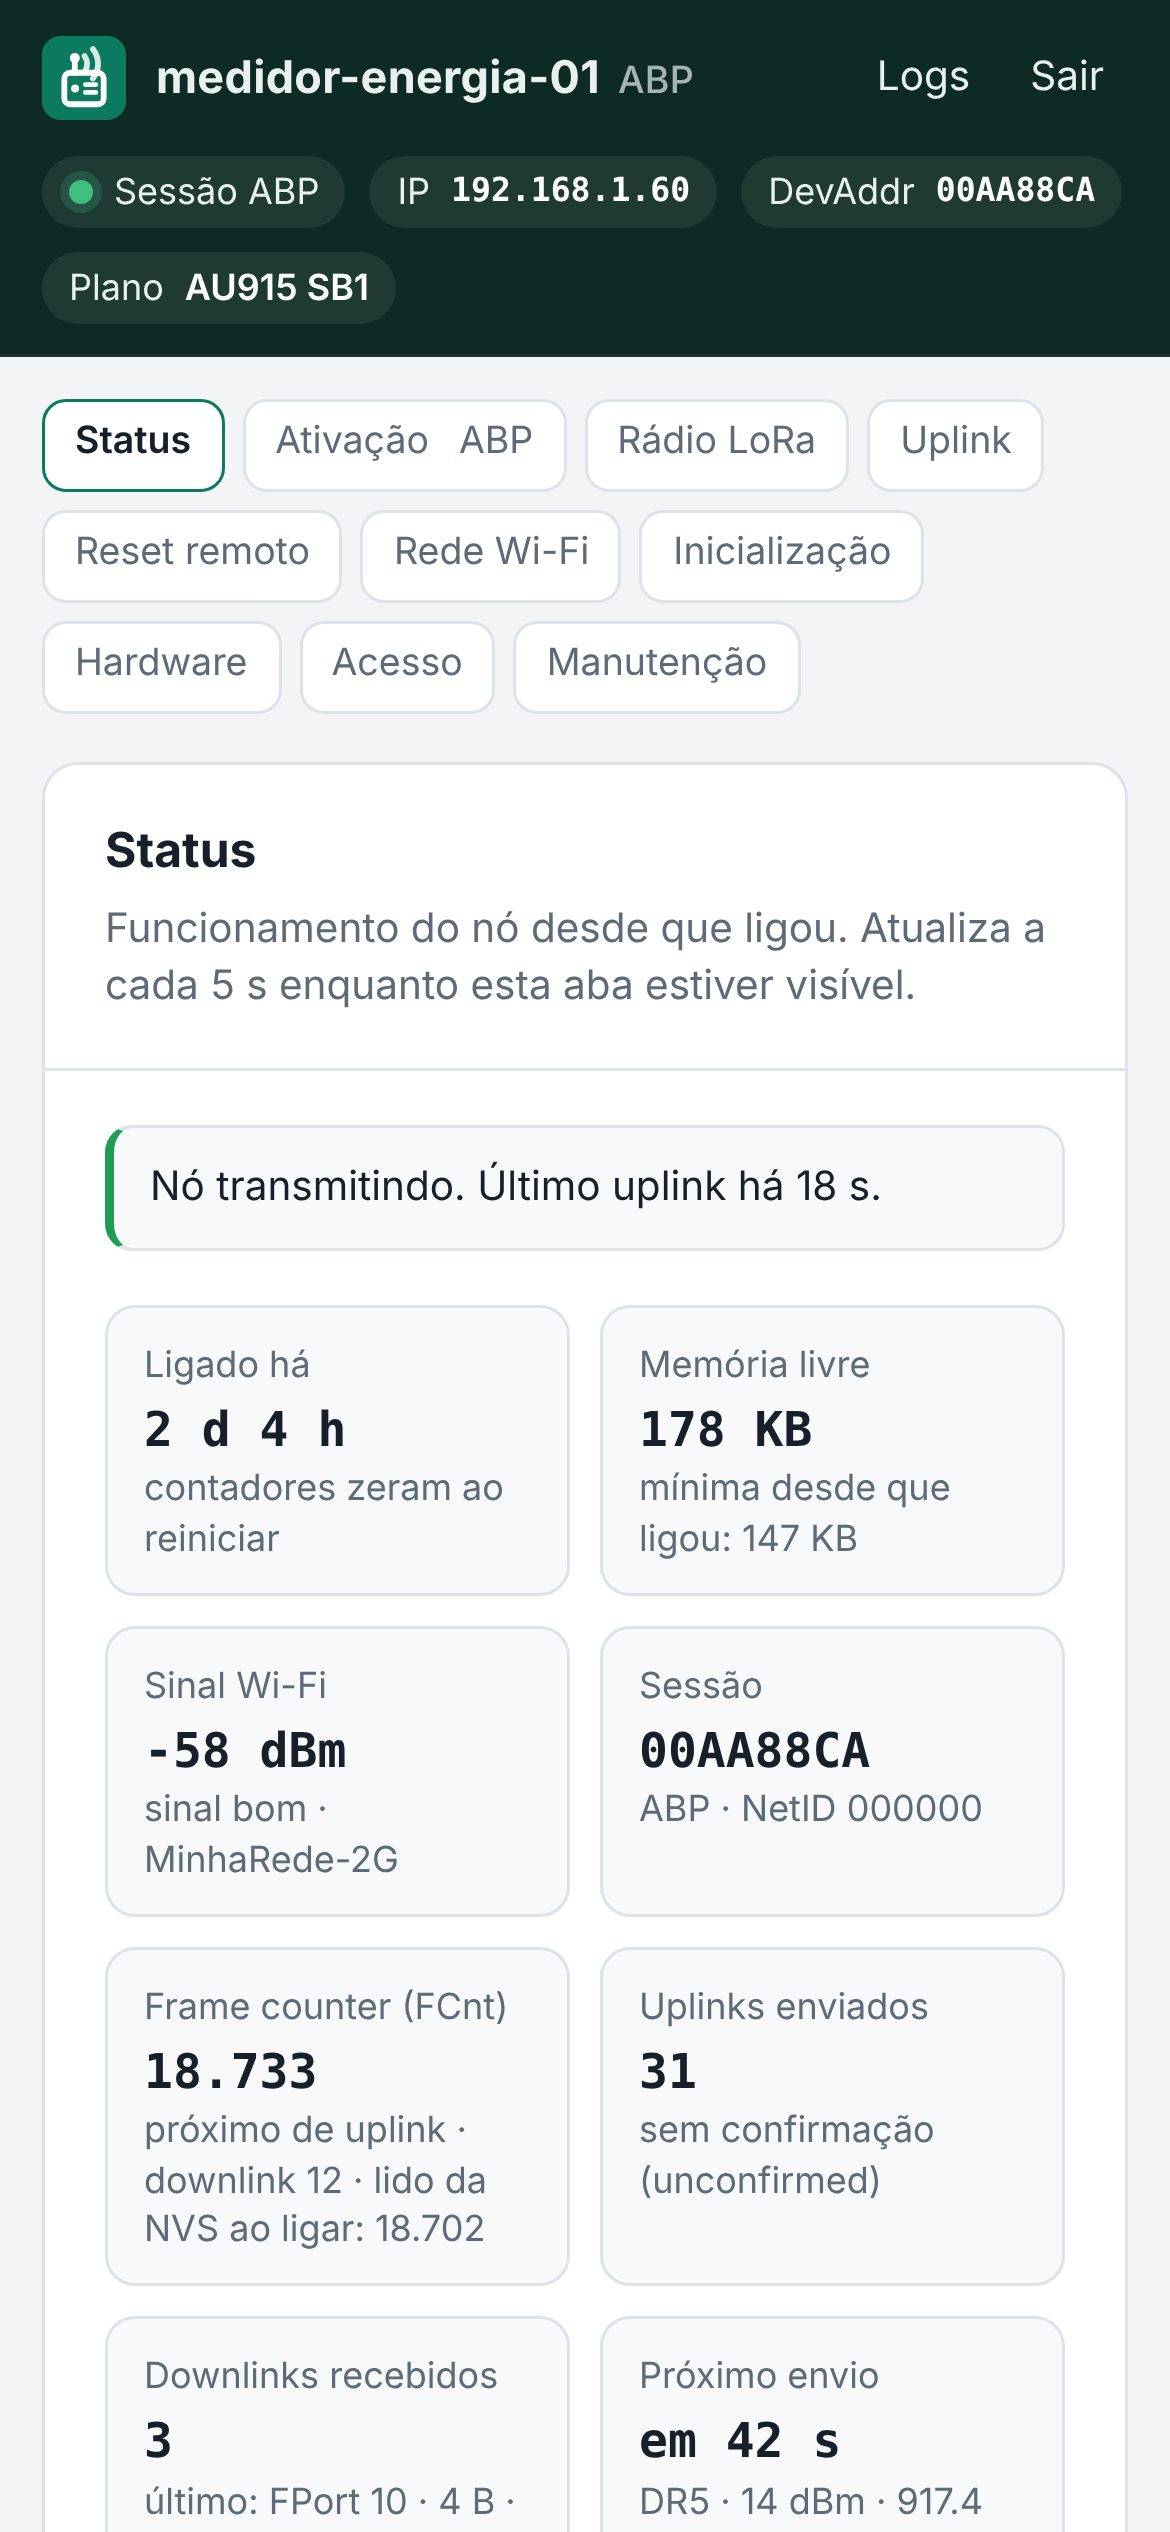
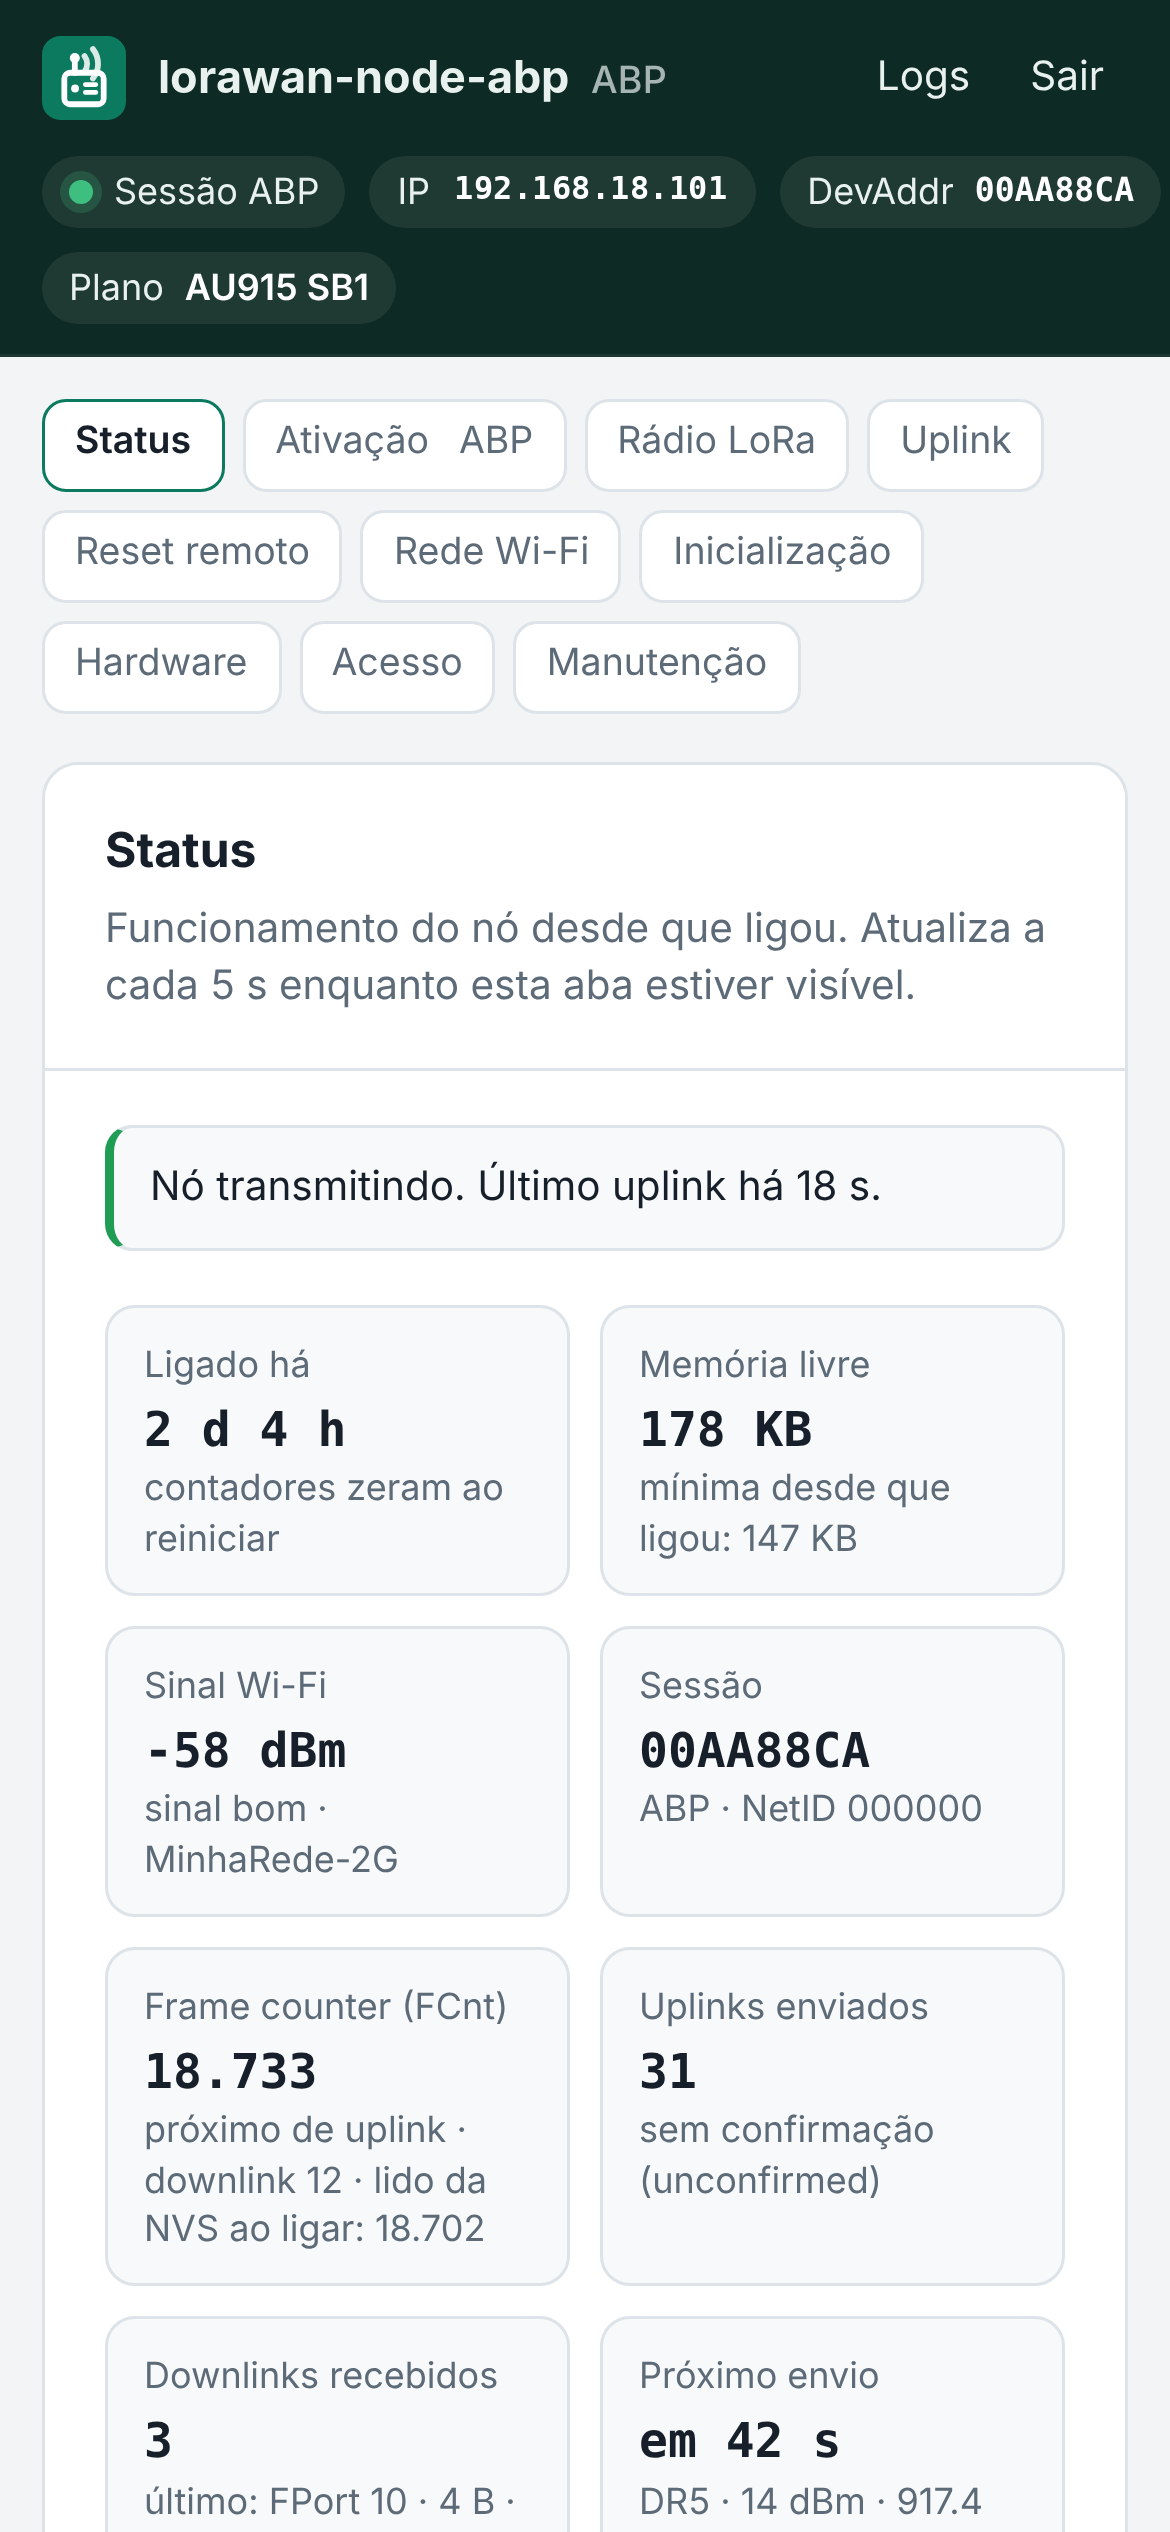
Alteração IP, Gateway, Usuário e Senha de acesso
Alteração IP, Gateway, Usuário e Senha de acesso.

diff --git a/node_page.h b/node_page.h
@@ -493,7 +493,7 @@ v=hexb(f.rst_cmd.value);if(!v||v.length<1||v.length>16)e.push("Comando de reset:
 v=f.wifi_pswd.value;if(v&&v.length<8)e.push("Senha do Wi-Fi: mínimo de 8 caracteres.");
 v=f.ap_pswd.value;if(v&&v.length<8)e.push("Senha do Soft AP: mínimo de 8 caracteres.");
 if(rv("ip_mode")=="static"){var A={};if(!f.ip_mask.value.trim())f.ip_mask.value="255.255.255.0";
-[["ip_addr","Endereço IP",1],["ip_mask","Máscara",1],["ip_gw","Gateway",1],["ip_dns1","DNS primário",0],["ip_dns2","DNS secundário",0]].forEach(function(x){v=f[x[0]].value.trim();f[x[0]].value=v;if(!v){if(x[2])e.push(x[1]+": obrigatório com IP fixo.");return}A[x[0]]=ip4(v);if(A[x[0]]===null)e.push(x[1]+": use o formato 192.168.1.60.")});
+[["ip_addr","Endereço IP",1],["ip_mask","Máscara",1],["ip_gw","Gateway",1],["ip_dns1","DNS primário",0],["ip_dns2","DNS secundário",0]].forEach(function(x){v=f[x[0]].value.trim();f[x[0]].value=v;if(!v){if(x[2])e.push(x[1]+": obrigatório com IP fixo.");return}A[x[0]]=ip4(v);if(A[x[0]]===null)e.push(x[1]+": use o formato 192.168.18.101.")});
 if(A.ip_mask!=null&&(!A.ip_mask||!/^1*0*$/.test(A.ip_mask.toString(2).padStart(32,"0"))))e.push("Máscara: inválida (ex.: 255.255.255.0).");
 else if(A.ip_addr!=null&&A.ip_gw!=null&&A.ip_mask!=null){if(((A.ip_addr&A.ip_mask)>>>0)!==((A.ip_gw&A.ip_mask)>>>0))e.push("Gateway fora da rede do endereço IP (confira a máscara).");if(A.ip_addr===A.ip_gw)e.push("Endereço IP igual ao do gateway.")}}
 if(rv("wifi_mode")=="sta"&&!f.wifi_ssid.value.trim())e.push("Modo Station: informe o nome da rede Wi-Fi (ou escolha Soft AP).");

diff --git a/node_web.cpp b/node_web.cpp
@@ -532,9 +532,9 @@ static void handleSave(void)
     argStr("ip_dns1", n.dns1, sizeof(n.dns1), "DNS primário");
     argStr("ip_dns2", n.dns2, sizeof(n.dns2), "DNS secundário");
     if (n.ipStatic) {
-        if (!validIPv4(n.ip))   err("Endereço IP: use o formato 192.168.1.60.");
+        if (!validIPv4(n.ip))   err("Endereço IP: use o formato 192.168.18.101.");
         if (!validIPv4(n.mask)) err("Máscara: use o formato 255.255.255.0.");
-        if (!validIPv4(n.gw))   err("Gateway: use o formato 192.168.1.1.");
+        if (!validIPv4(n.gw))   err("Gateway: use o formato 192.168.18.1.");
         if (n.dns1[0] && !validIPv4(n.dns1)) err("DNS primário: formato inválido.");
         if (n.dns2[0] && !validIPv4(n.dns2)) err("DNS secundário: formato inválido.");
     }

diff --git a/README.md b/README.md
@@ -719,7 +719,7 @@ ABP session provisioned:
   Channels: 9 enabled (sub-band from config)
 Packet queued.
 [WEB] Conectando na rede "MinhaRede-2G"...
-[WEB] Wi-Fi conectado: http://192.168.1.60/  ou  http://lorawan-node-abp.local/  (RSSI -58 dBm)
+[WEB] Wi-Fi conectado: http://192.168.18.101/  ou  http://lorawan-node-abp.local/  (RSSI -58 dBm)
 
 EV_TXSTART
 LMiC NwkSKey: 151F7779D7AAEE422A74568380DB7045
